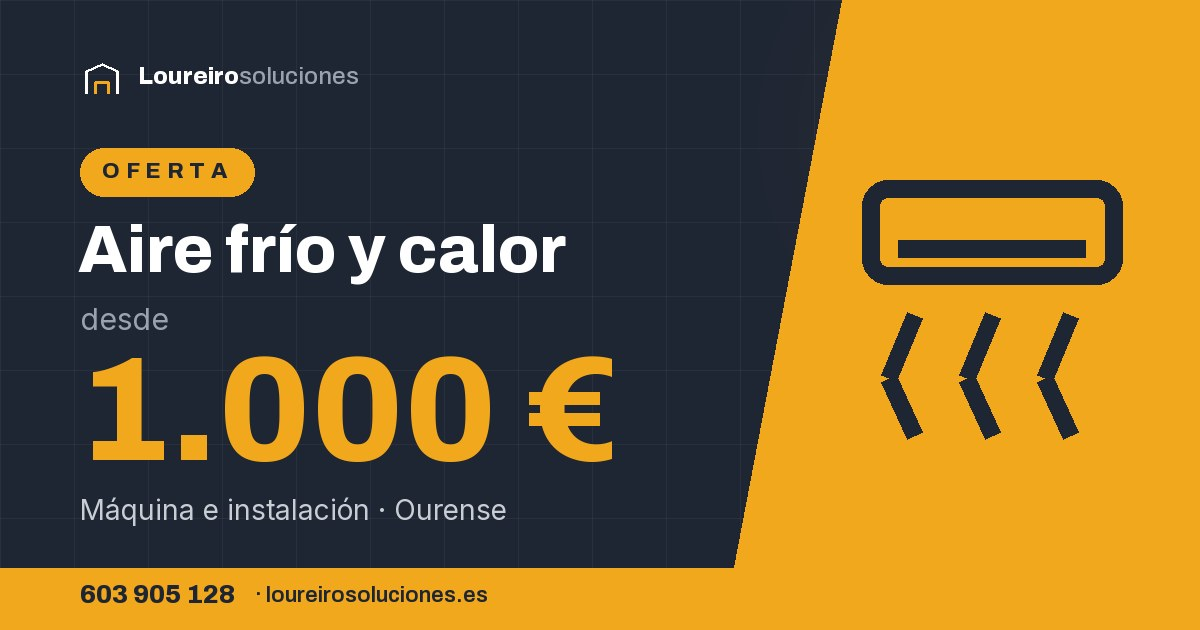
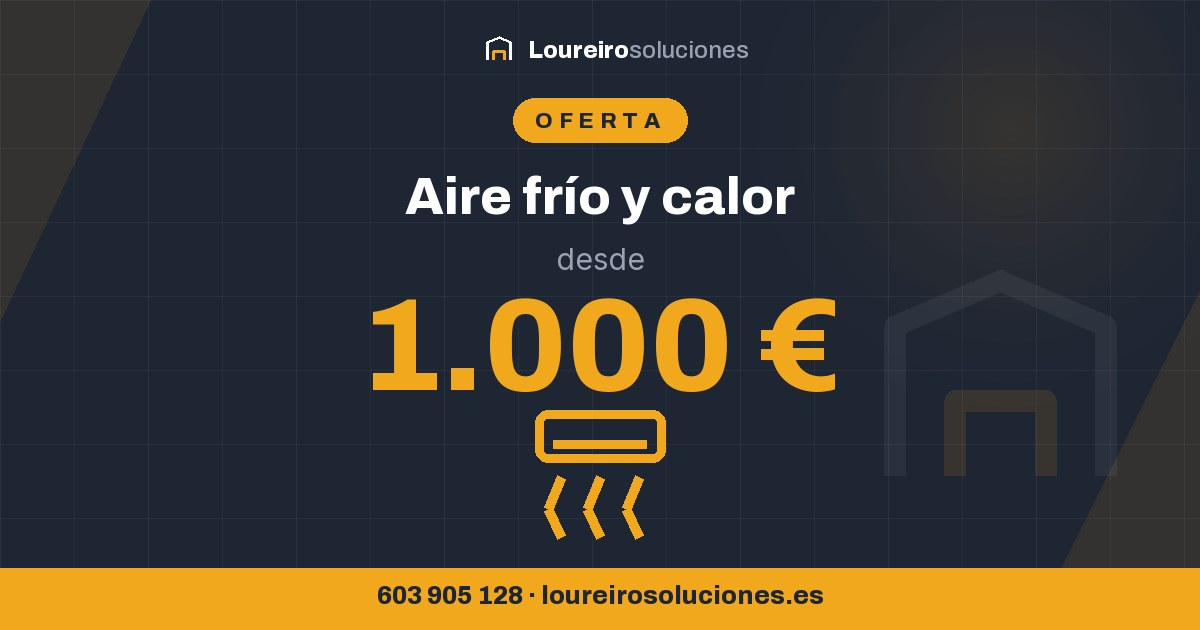
La tarjeta de oferta, compuesta para el recorte de WhatsApp
WhatsApp no enseña la imagen entera: pone una miniatura cuadrada recortada
por el centro. De la tarjeta apaisada solo quedaba una tira con «a por
ducha» y «0 €», cortado por los dos lados.

Ahora todo lo que hay que leer —marca, etiqueta, titular, precio, icono y
teléfono— va centrado y dentro de los 630 px centrales, que es lo que
sobrevive al recorte. Los lados son decoración, para Facebook, que sí
enseña la tarjeta entera.

La URL de la imagen lleva ?v=2: el fichero se llama igual y, sin eso, los
previsualizadores seguirían sirviendo la de su caché.

diff --git a/ofertas/reforma-electrica/index.html b/ofertas/reforma-electrica/index.html
@@ -13,14 +13,14 @@
 <meta property="og:title" content="Reforma eléctrica de la vivienda entera desde 2.700 €">
 <meta property="og:description" content="Cuadro nuevo con hasta 6 circuitos, cableado nuevo y todo conforme al REBT, lista para el boletín y para subir la potencia. Desde 2.700 € sin IVA.">
 <meta property="og:url" content="https://loureirosoluciones.es/ofertas/reforma-electrica/">
-<meta property="og:image" content="https://loureirosoluciones.es/assets/img/og/oferta-electrica.jpg">
-<meta property="og:image:secure_url" content="https://loureirosoluciones.es/assets/img/og/oferta-electrica.jpg">
+<meta property="og:image" content="https://loureirosoluciones.es/assets/img/og/oferta-electrica.jpg?v=2">
+<meta property="og:image:secure_url" content="https://loureirosoluciones.es/assets/img/og/oferta-electrica.jpg?v=2">
 <meta property="og:image:type" content="image/jpeg">
 <meta property="og:image:width" content="1200">
 <meta property="og:image:height" content="630">
 <meta property="og:image:alt" content="Reforma eléctrica de la vivienda entera desde 2.700 €. Loureiro Soluciones, Ourense.">
 <meta name="twitter:card" content="summary_large_image">
-<meta name="twitter:image" content="https://loureirosoluciones.es/assets/img/og/oferta-electrica.jpg">
+<meta name="twitter:image" content="https://loureirosoluciones.es/assets/img/og/oferta-electrica.jpg?v=2">
 <link rel="icon" href="/assets/img/favicon.svg" type="image/svg+xml">
 <link rel="preload" href="/assets/fonts/inter-var-latin.woff2" as="font" type="font/woff2" crossorigin>
 <link rel="preload" href="/assets/fonts/archivo-var-latin.woff2" as="font" type="font/woff2" crossorigin>

diff --git a/ofertas/banera-por-plato-de-ducha/index.html b/ofertas/banera-por-plato-de-ducha/index.html
@@ -13,14 +13,14 @@
 <meta property="og:title" content="Cambio de bañera por plato de ducha desde 700 €, en dos días">
 <meta property="og:description" content="El plato lo eliges tú; nosotros ponemos desagüe, alicatado y remates, y nos llevamos los escombros. Desde 700 € sin IVA en Ourense.">
 <meta property="og:url" content="https://loureirosoluciones.es/ofertas/banera-por-plato-de-ducha/">
-<meta property="og:image" content="https://loureirosoluciones.es/assets/img/og/oferta-ducha.jpg">
-<meta property="og:image:secure_url" content="https://loureirosoluciones.es/assets/img/og/oferta-ducha.jpg">
+<meta property="og:image" content="https://loureirosoluciones.es/assets/img/og/oferta-ducha.jpg?v=2">
+<meta property="og:image:secure_url" content="https://loureirosoluciones.es/assets/img/og/oferta-ducha.jpg?v=2">
 <meta property="og:image:type" content="image/jpeg">
 <meta property="og:image:width" content="1200">
 <meta property="og:image:height" content="630">
 <meta property="og:image:alt" content="Cambio de bañera por plato de ducha desde 700 €, en dos días. Loureiro Soluciones, Ourense.">
 <meta name="twitter:card" content="summary_large_image">
-<meta name="twitter:image" content="https://loureirosoluciones.es/assets/img/og/oferta-ducha.jpg">
+<meta name="twitter:image" content="https://loureirosoluciones.es/assets/img/og/oferta-ducha.jpg?v=2">
 <link rel="icon" href="/assets/img/favicon.svg" type="image/svg+xml">
 <link rel="preload" href="/assets/fonts/inter-var-latin.woff2" as="font" type="font/woff2" crossorigin>
 <link rel="preload" href="/assets/fonts/archivo-var-latin.woff2" as="font" type="font/woff2" crossorigin>

diff --git a/ofertas/aire-acondicionado/index.html b/ofertas/aire-acondicionado/index.html
@@ -13,14 +13,14 @@
 <meta property="og:title" content="Aire acondicionado frío y calor desde 1.000 € en Ourense">
 <meta property="og:description" content="Máquina e instalación incluidas, desde 1.000 € sin IVA. Si la casa no es grande, con un equipo bien colocado puede sobrar. Ourense y provincia.">
 <meta property="og:url" content="https://loureirosoluciones.es/ofertas/aire-acondicionado/">
-<meta property="og:image" content="https://loureirosoluciones.es/assets/img/og/oferta-aire.jpg">
-<meta property="og:image:secure_url" content="https://loureirosoluciones.es/assets/img/og/oferta-aire.jpg">
+<meta property="og:image" content="https://loureirosoluciones.es/assets/img/og/oferta-aire.jpg?v=2">
+<meta property="og:image:secure_url" content="https://loureirosoluciones.es/assets/img/og/oferta-aire.jpg?v=2">
 <meta property="og:image:type" content="image/jpeg">
 <meta property="og:image:width" content="1200">
 <meta property="og:image:height" content="630">
 <meta property="og:image:alt" content="Aire acondicionado frío y calor desde 1.000 € en Ourense. Loureiro Soluciones, Ourense.">
 <meta name="twitter:card" content="summary_large_image">
-<meta name="twitter:image" content="https://loureirosoluciones.es/assets/img/og/oferta-aire.jpg">
+<meta name="twitter:image" content="https://loureirosoluciones.es/assets/img/og/oferta-aire.jpg?v=2">
 <link rel="icon" href="/assets/img/favicon.svg" type="image/svg+xml">
 <link rel="preload" href="/assets/fonts/inter-var-latin.woff2" as="font" type="font/woff2" crossorigin>
 <link rel="preload" href="/assets/fonts/archivo-var-latin.woff2" as="font" type="font/woff2" crossorigin>

diff --git a/scripts/generar-og.py b/scripts/generar-og.py
@@ -192,38 +192,53 @@ def icono(d, clase, cx, cy, lado, color):
                    (cx + 34 * u, cy - 8 * u), (cx + 2 * u, cy - 8 * u)], fill=color)
 
 
+def centrado(d, y, texto, fuente, color, centro=ANCHO // 2):
+    ancho = d.textlength(texto, font=fuente)
+    d.text((centro - ancho / 2, y), texto, font=fuente, fill=color)
+    return ancho
+
+
 def tarjeta_oferta(titular, precio, pie, clase, tipos):
-    """La que se comparte: precio enorme, cuña amarilla y teléfono."""
+    """La que se comparte: todo centrado, porque WhatsApp recorta a cuadrado.
+
+    La franja que sobrevive al recorte son los 630 px centrales. Dentro de
+    ella va lo que hay que leer; a los lados, solo decoración.
+    """
     im = fondo()
     d = ImageDraw.Draw(im, "RGBA")
+    centro = ANCHO // 2
+    cuadro = ALTO // 2      # media anchura de lo que sobrevive al recorte
 
-    # Cuña amarilla a la derecha, con el icono dentro.
-    d.polygon([(842, 0), (ANCHO, 0), (ANCHO, ALTO), (722, ALTO)], fill=AMARILLO)
-    icono(d, clase, 992, 300, 260, GRAFITO)
+    # Decoración de los lados: se pierde en WhatsApp y se ve en Facebook.
+    d.polygon([(0, 0), (150, 0), (0, 320)], fill=AMARILLO + (26,))
+    d.polygon([(ANCHO, ALTO), (ANCHO - 170, ALTO), (ANCHO, ALTO - 340)], fill=AMARILLO + (26,))
 
-    # Marca arriba.
-    dibujar_marca(im, 80, 60, 44, BLANCO, AMARILLO)
-    d.text((138, 62), "Loureiro", font=tipos["marca_of"], fill=BLANCO)
+    # Marca, arriba del todo.
+    dibujar_marca(im, centro - 118, 34, 34, BLANCO, AMARILLO)
+    d.text((centro - 72, 36), "Loureiro", font=tipos["marca_of"], fill=BLANCO)
     ancho_marca = d.textlength("Loureiro", font=tipos["marca_of"])
-    d.text((138 + ancho_marca, 62), "soluciones", font=tipos["marca_of_sub"], fill=APAGADO)
+    d.text((centro - 72 + ancho_marca, 36), "soluciones", font=tipos["marca_of_sub"], fill=APAGADO)
 
     # Etiqueta de oferta.
     texto = "OFERTA"
     ancho_texto = d.textlength(texto, font=tipos["pill"]) + 6 * 5.5
-    d.rounded_rectangle([80, 148, 80 + ancho_texto + 44, 196], radius=24, fill=AMARILLO)
-    texto_espaciado(d, (102, 158), texto, tipos["pill"], GRAFITO, 5.5)
+    d.rounded_rectangle([centro - ancho_texto / 2 - 22, 98, centro + ancho_texto / 2 + 22, 142],
+                        radius=22, fill=AMARILLO)
+    texto_espaciado(d, (centro - ancho_texto / 2, 108), texto, tipos["pill"], GRAFITO, 5.5)
 
-    d.text((78, 214), titular, font=tipos["titular_of"], fill=BLANCO)
-    d.text((80, 300), "desde", font=tipos["desde"], fill=APAGADO)
-    d.text((78, 330), precio, font=tipos["precio"], fill=AMARILLO)
-    d.text((80, 492), pie, font=tipos["pie_of"], fill=(201, 205, 212))
+    centrado(d, 168, titular, tipos["titular_of"], BLANCO)
+    centrado(d, 240, "desde", tipos["desde"], APAGADO)
+    centrado(d, 274, precio, tipos["precio"], AMARILLO)
 
-    # Franja de abajo con el teléfono, en amarillo para que se lea de lejos.
+    # El icono, debajo del precio: es lo que hace reconocible la oferta de un
+    # vistazo, y en miniatura se lee antes que cualquier texto pequeño.
+    icono(d, clase, centro, 470, 130, AMARILLO)
+
+    # Franja de abajo con el teléfono, dentro del recorte.
     d.rectangle([0, ALTO - 62, ANCHO, ALTO], fill=AMARILLO)
-    d.text((80, ALTO - 50), "603 905 128", font=tipos["tel"], fill=GRAFITO)
-    ancho_tel = d.textlength("603 905 128", font=tipos["tel"])
-    d.text((80 + ancho_tel + 20, ALTO - 48), "· loureirosoluciones.es",
-           font=tipos["tel_sub"], fill=GRAFITO)
+    linea = "603 905 128 · loureirosoluciones.es"
+    centrado(d, ALTO - 48, linea, tipos["tel"], GRAFITO)
+
     return im
 
 
@@ -244,11 +259,11 @@ def main():
             "marca_of": ImageFont.truetype(archivo800, 24),
             "marca_of_sub": ImageFont.truetype(archivo500, 24),
             "pill": ImageFont.truetype(archivo800, 22),
-            "titular_of": ImageFont.truetype(archivo800, 66),
+            "titular_of": ImageFont.truetype(archivo800, 52),
             "desde": ImageFont.truetype(inter400, 30),
-            "precio": ImageFont.truetype(archivo800, 148),
+            "precio": ImageFont.truetype(archivo800, 132),
             "pie_of": ImageFont.truetype(inter400, 28),
-            "tel": ImageFont.truetype(archivo800, 26),
+            "tel": ImageFont.truetype(archivo800, 25),
             "tel_sub": ImageFont.truetype(archivo600, 22),
         }
         for nombre, l1, l2, pie in TARJETAS:
